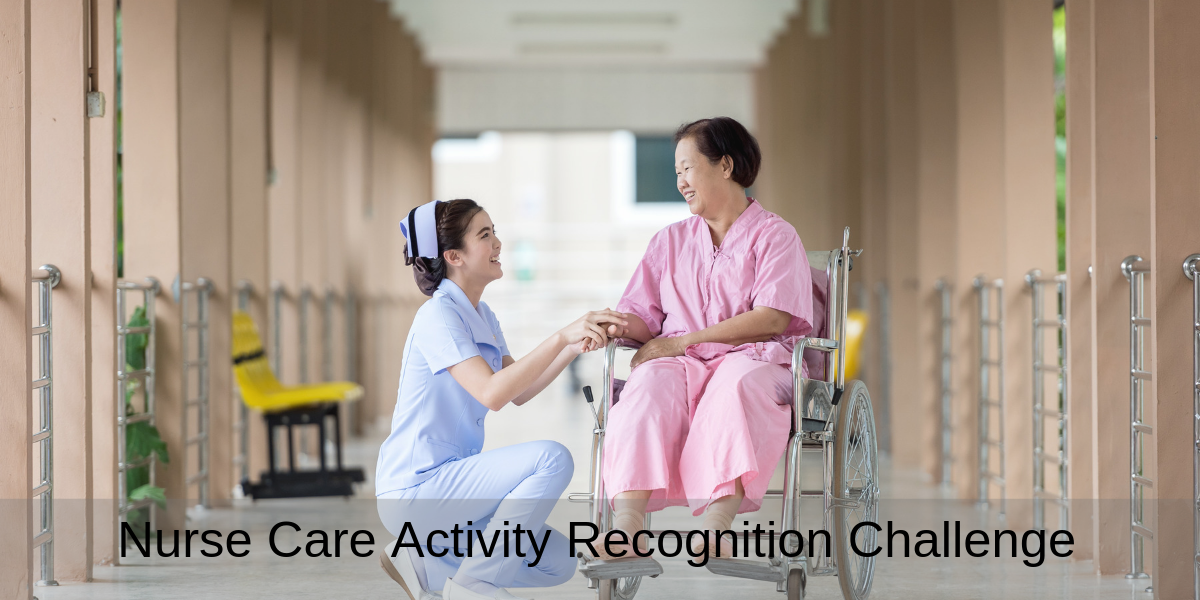
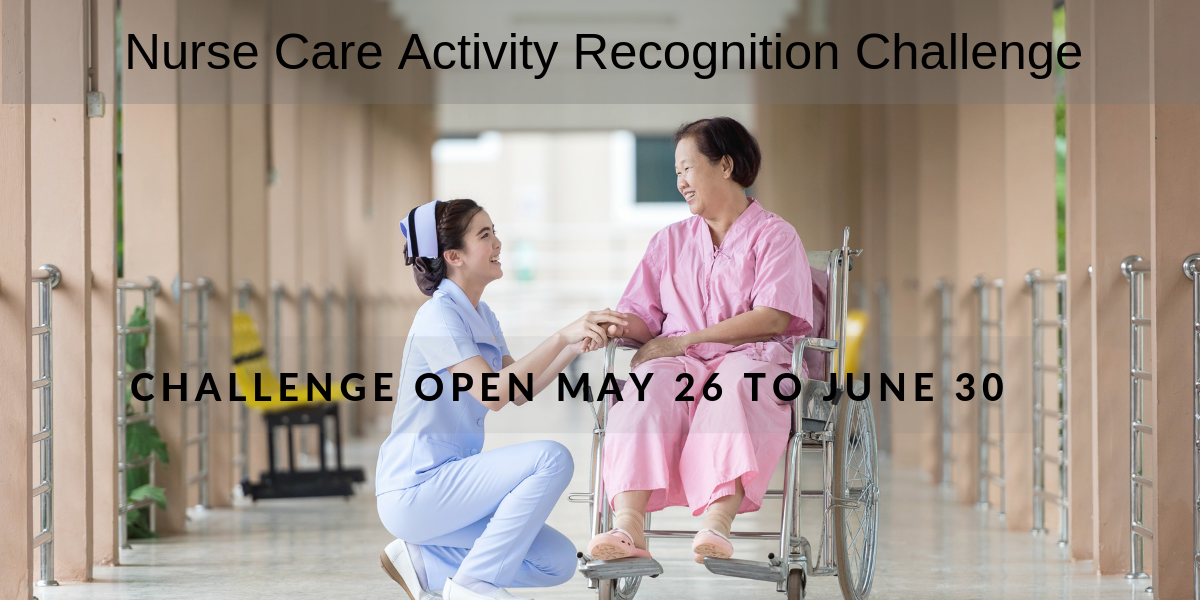
include dates

Changed region(s): [[0.0, 0.81, 0.9558, 1.0], [0.0, 0.0, 0.8942, 0.18], [0.0925, 0.6, 0.8325, 0.69]]

diff --git a/index.html b/index.html
@@ -6,7 +6,12 @@ header:
   image: /assets/images/header.png
   image_description: "Welcome to HASC Nurse Care Activity Recognition Challenge"
 feature_row:
-    - title: "Learn More"
+    - title: "Challenge starts May 26"
+      excerpt: "Submit results and paper: June 30"
+      url: /how_to/
+      btn_label: "Read More"
+      btn_class: "btn--primary"
+    - title: "About the Challenge"
       excerpt: "Learn about the challenge"
       url: /learn/
       btn_label: "Learn More"
@@ -15,11 +20,6 @@ feature_row:
       title: "Data Description"
       excerpt: "Data Description"
       btn_label: "Know the data"
-      btn_class: "btn--primary"
-    - title: "Participate"
-      excerpt: "Accept the challenge!"
-      url: "/join/"
-      btn_label: "Submit!"
       btn_class: "btn--primary"
 ---
 
